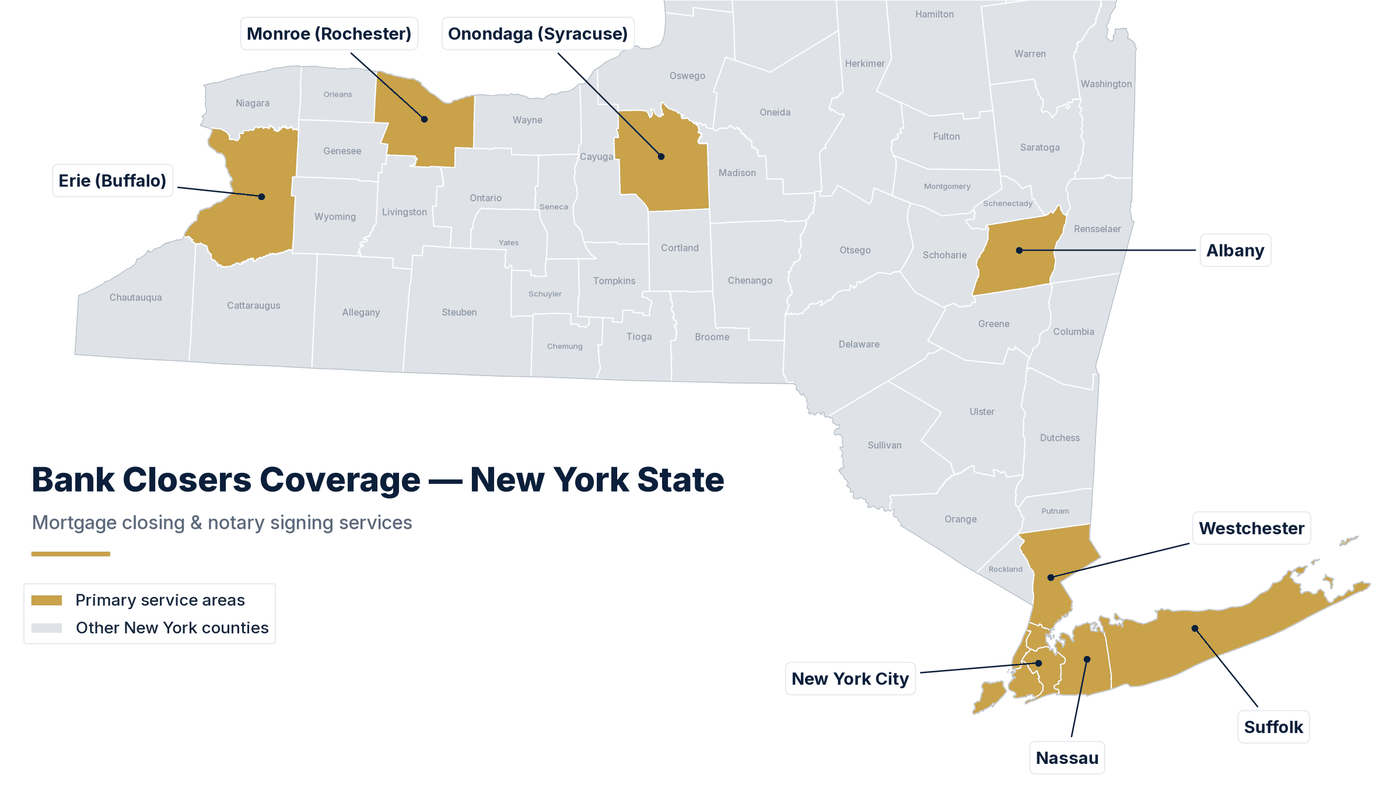
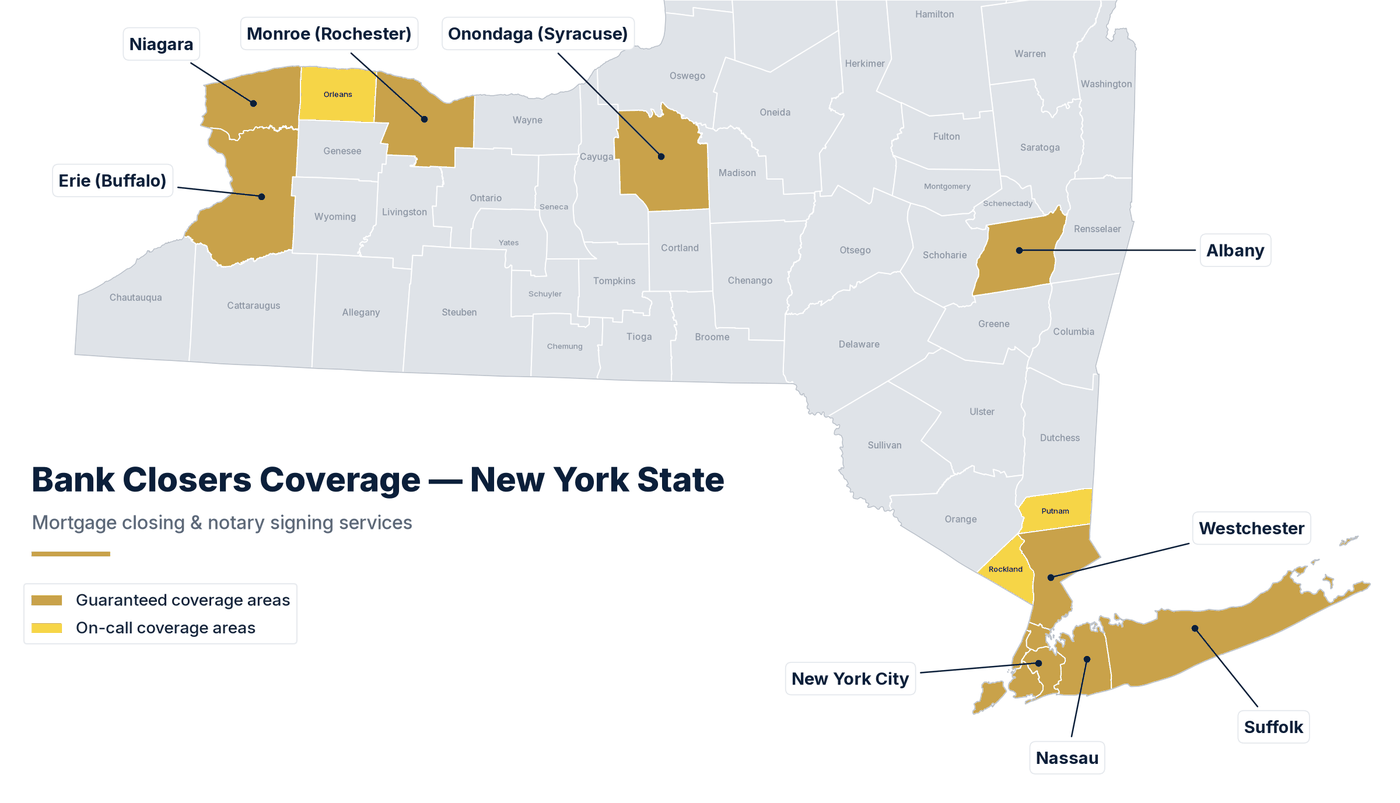
Update coverage map: guaranteed and on-call areas, add Niagara

diff --git a/index.html b/index.html
@@ -156,7 +156,7 @@ html{scroll-behavior:smooth}
     <div class="area"><b>Upstate New York</b><p>Statewide reach</p></div>
   </div>
   <figure class="coverage-map">
-    <img src="assets/ny-coverage-map.png" srcset="assets/ny-coverage-map.png 1400w, assets/ny-coverage-map@2x.png 2400w" sizes="(max-width: 1160px) calc(100vw - 90px), 1070px" width="1400" height="803" loading="lazy" decoding="async" alt="Map of New York State counties highlighting Bank Closers service areas: New York City, Nassau, Suffolk, Westchester, Albany, Erie (Buffalo), Monroe (Rochester) and Onondaga (Syracuse)">
+    <img src="assets/ny-coverage-map.png" srcset="assets/ny-coverage-map.png 1400w, assets/ny-coverage-map@2x.png 2400w" sizes="(max-width: 1160px) calc(100vw - 90px), 1070px" width="1400" height="803" loading="lazy" decoding="async" alt="Map of New York State counties. Guaranteed coverage areas: New York City, Nassau, Suffolk, Westchester, Albany, Erie (Buffalo), Niagara, Monroe (Rochester) and Onondaga (Syracuse). On-call coverage areas: Orleans, Putnam and Rockland.">
   </figure>
 </div></section>
 
